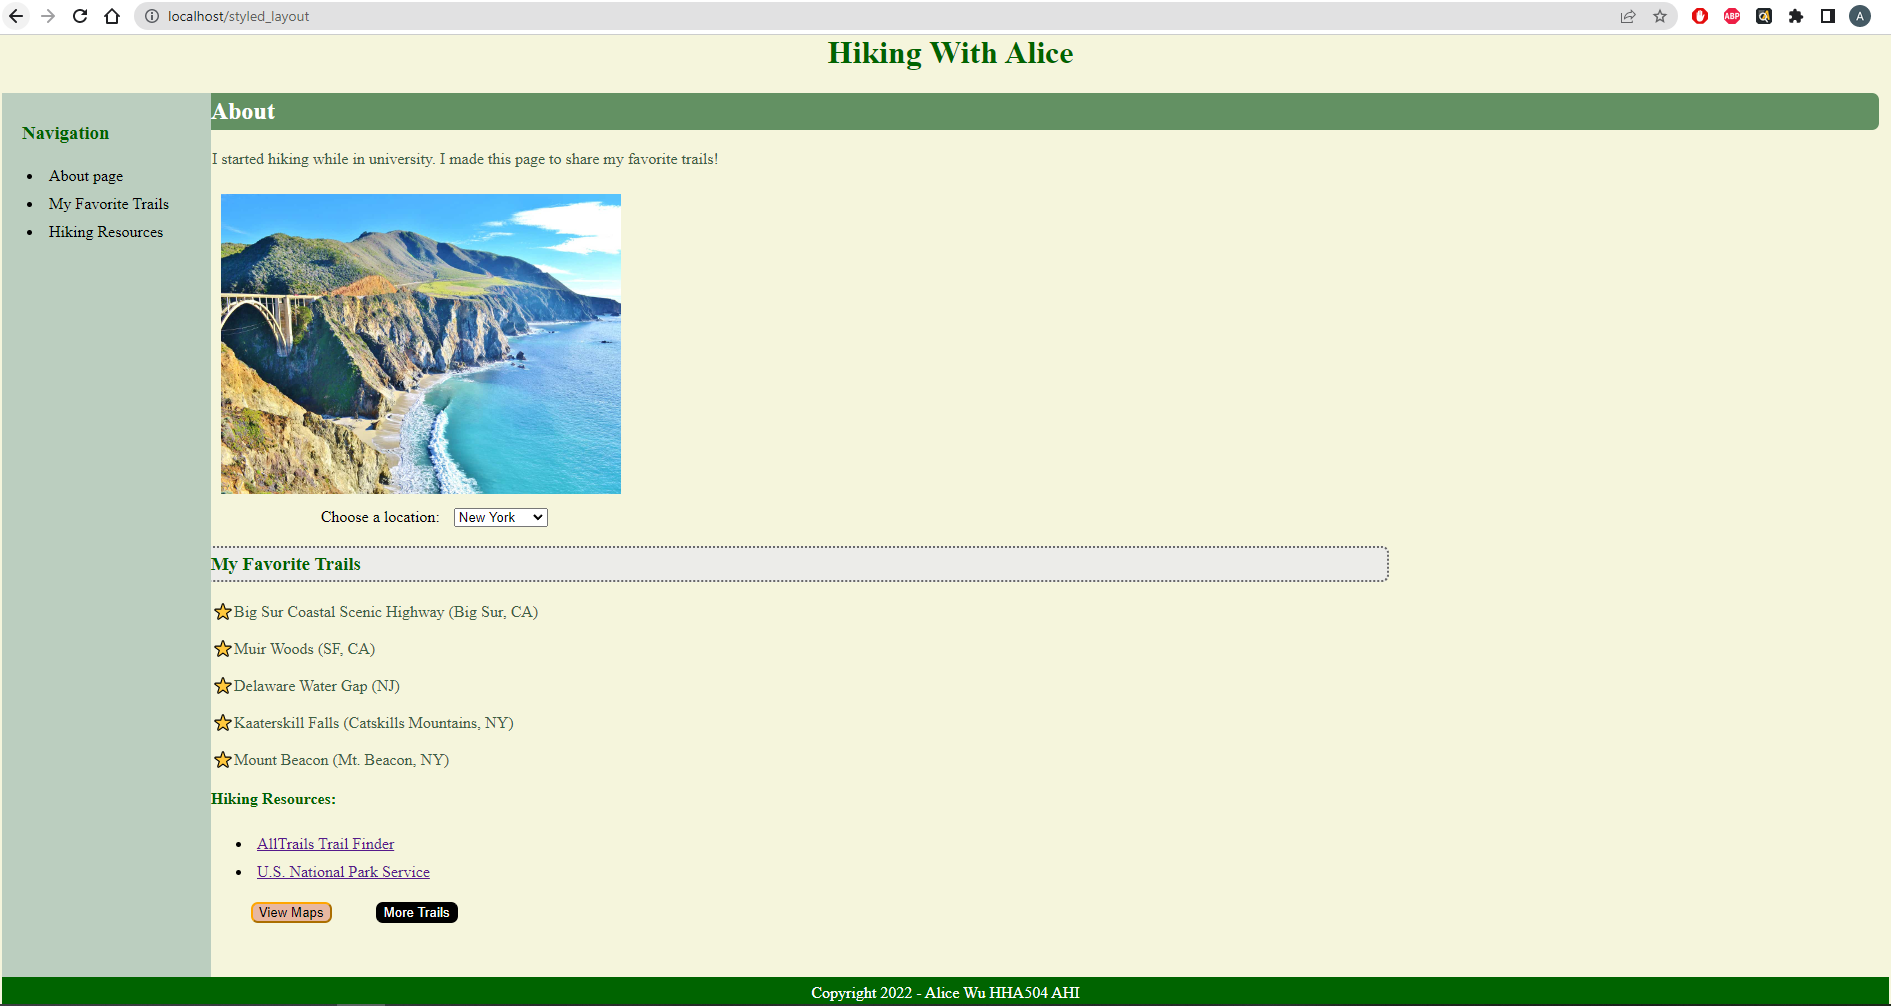
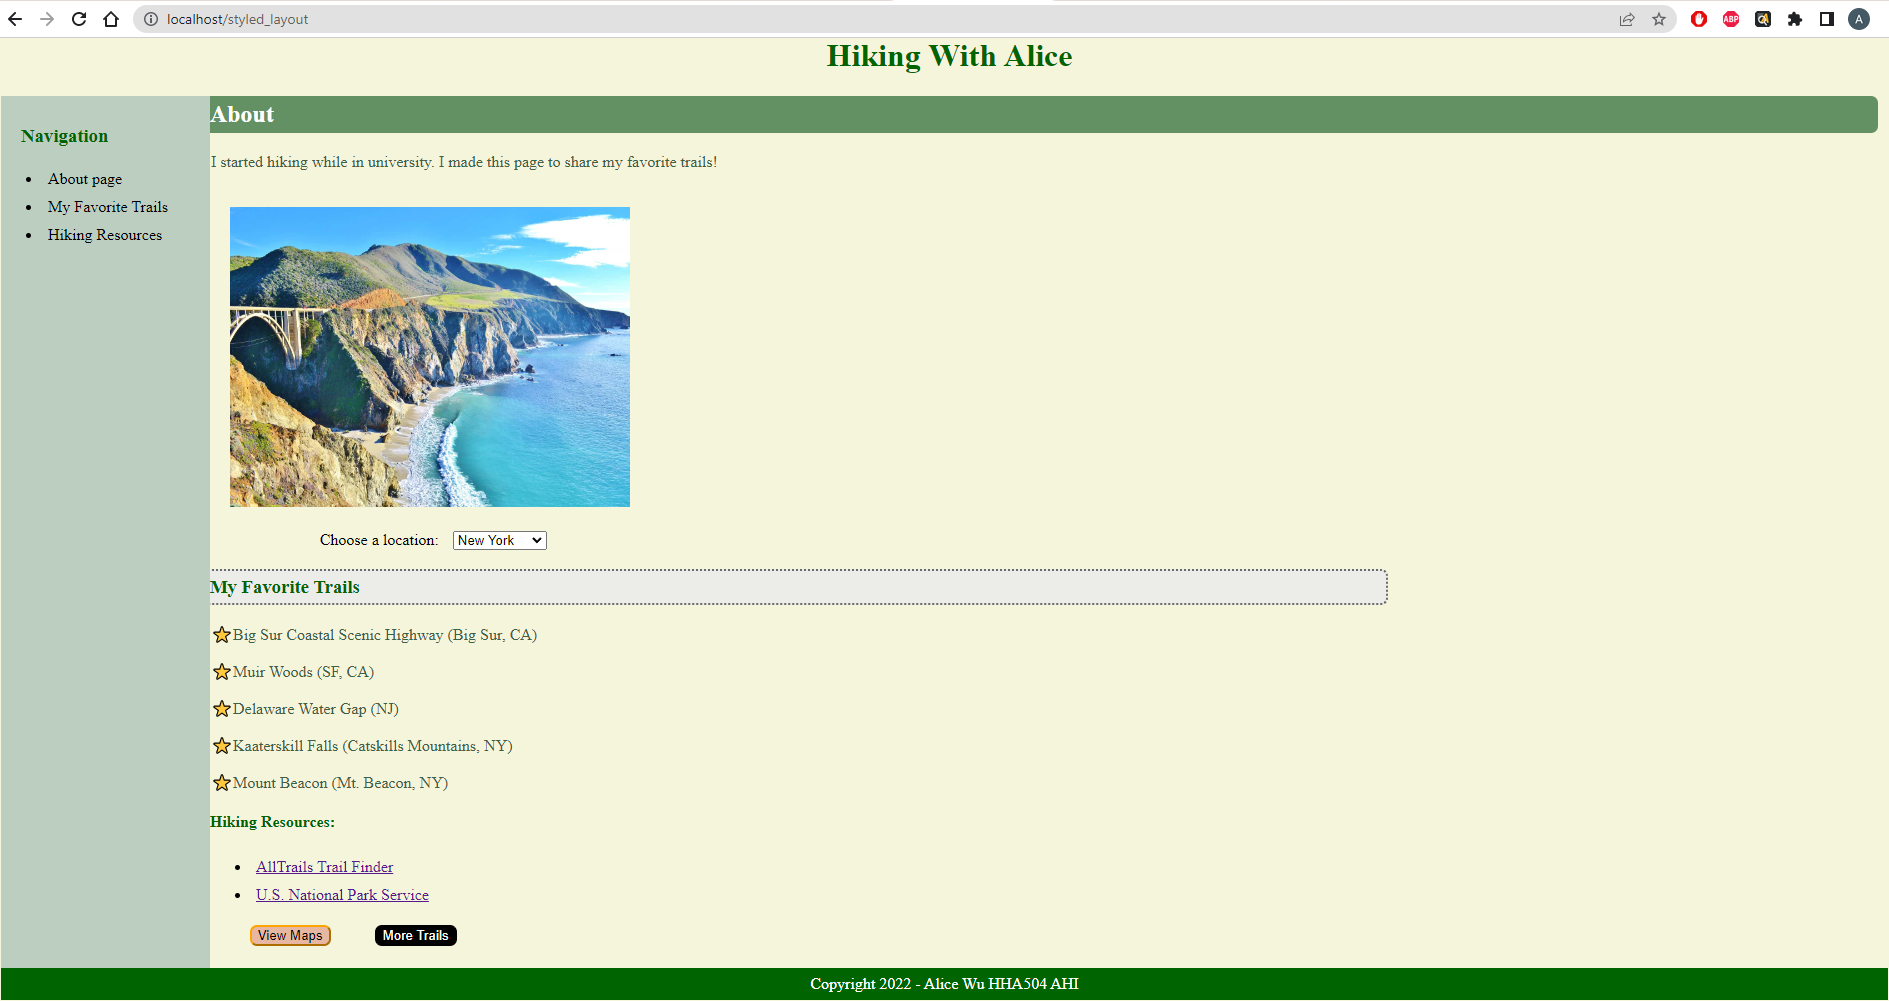
Updated css and png

Changed region(s): [[0.0, 0.0929, 1.0, 1.0], [0.0, 0.0, 1.0, 0.0929]]

diff --git a/static/styles2.css b/static/styles2.css
@@ -60,8 +60,8 @@ button {
 
 img {
     margin: 10px;
-    padding: 30px:
-    float: right;
+    padding: 10px;
+    float: center;
 }
 
 
@@ -69,7 +69,7 @@ img {
 nav {
     float: left;
     width: 10%;
-    height: 864px; /* only for demonstration, should be removed */
+    height: 852px; /* only for demonstration, should be removed */
     background: rgb(187, 206, 191);
     padding: 10px;
     }
@@ -99,6 +99,6 @@ li{
 }
 
 h5{
-    padding: 5px;
+    padding: 0px;
 
 }
